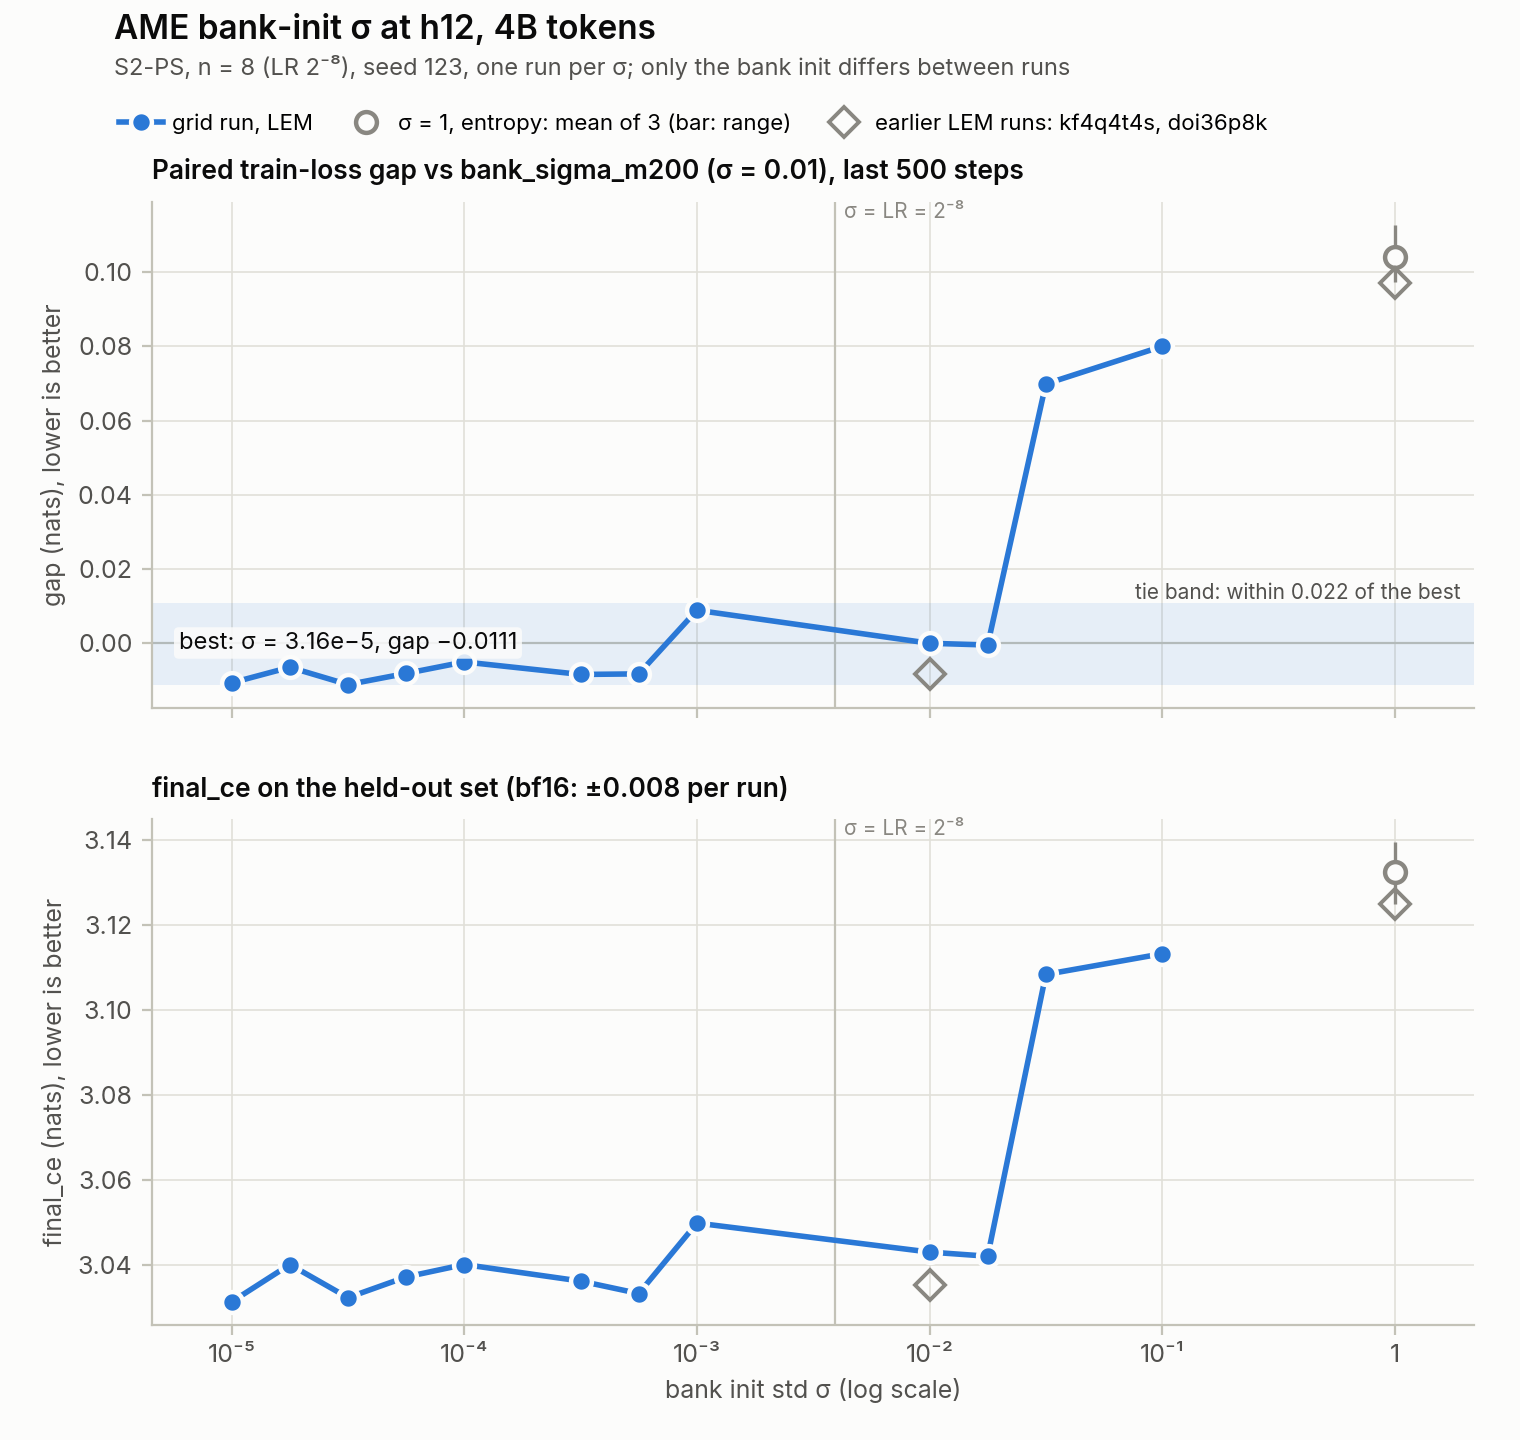
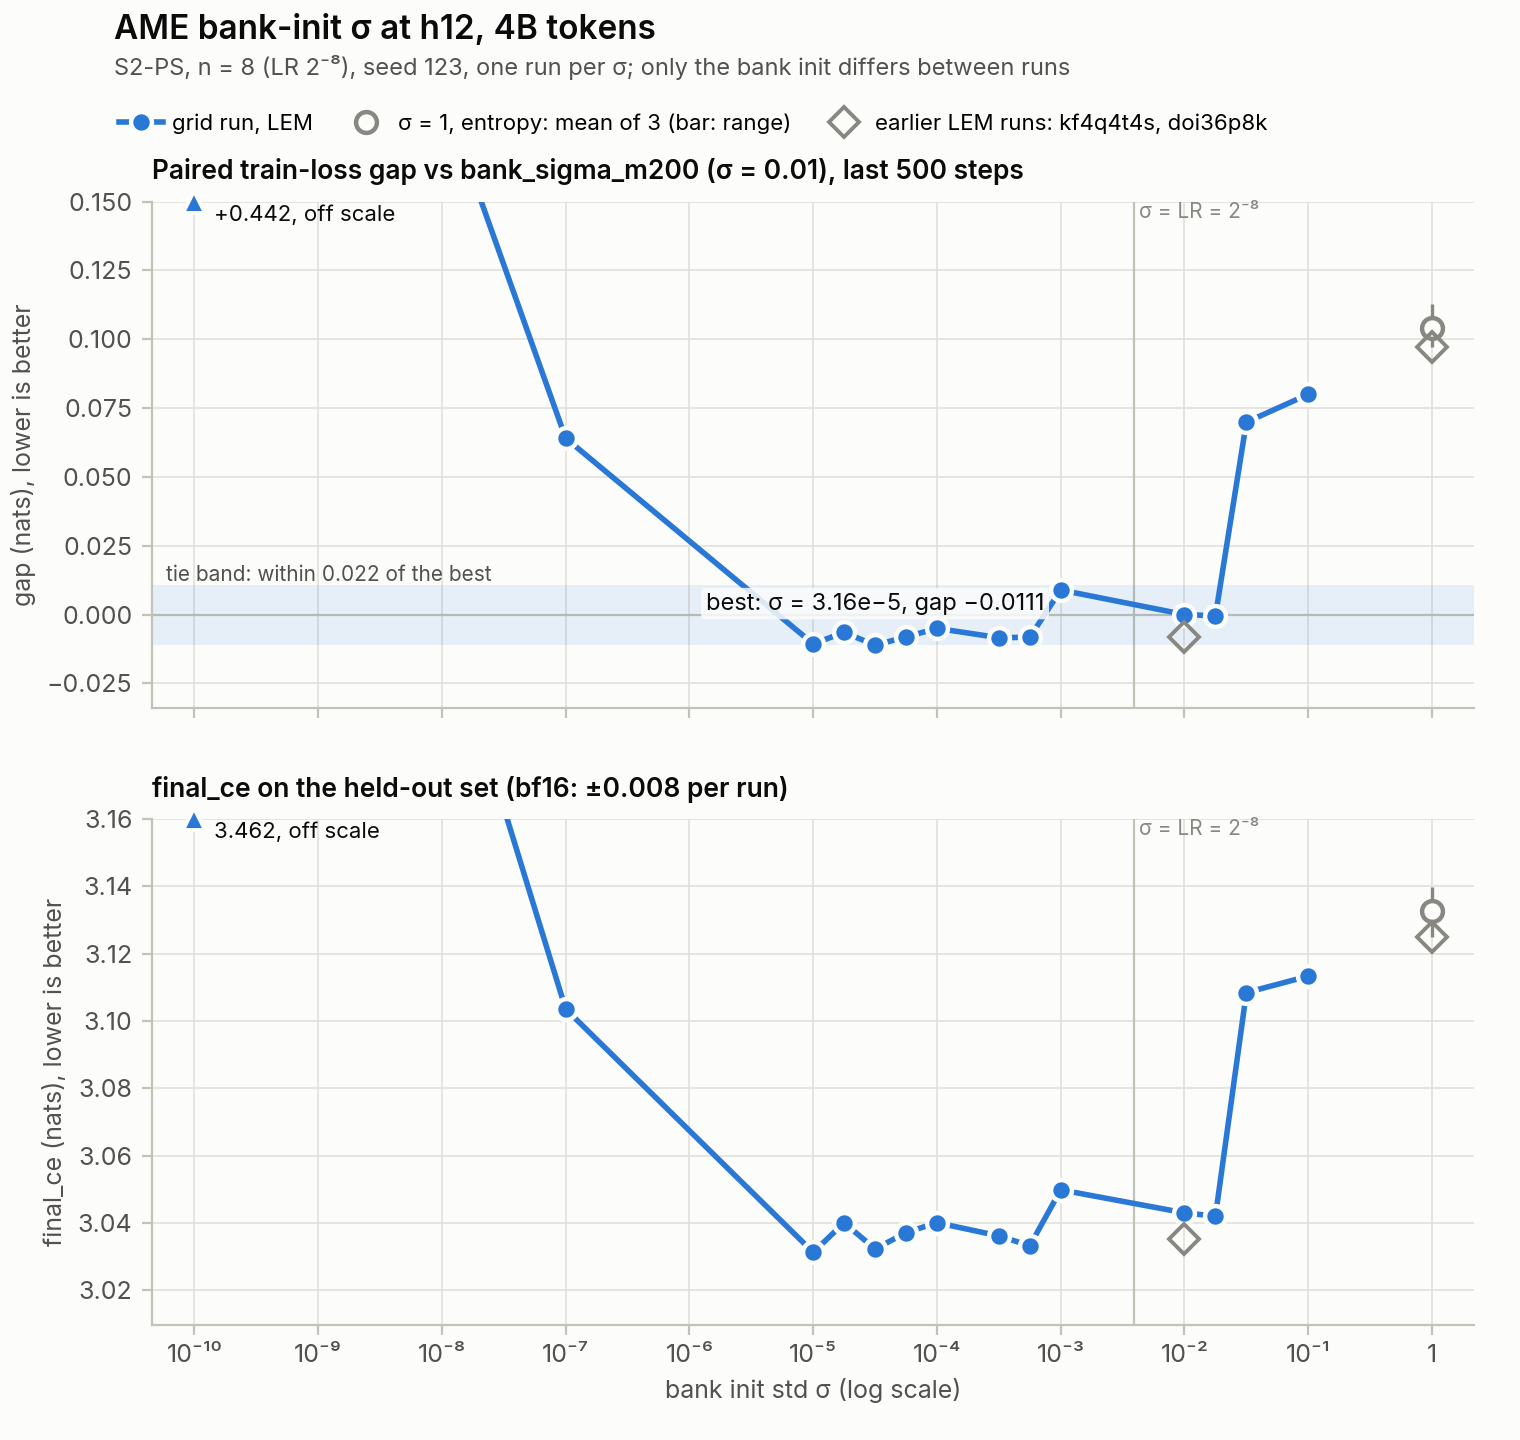
docs: the plan doc from ame_main, final with round 4 (14 runs, both edges, the redrawn chart)

diff --git a/documents/notes/ame_bank_sigma_grid.md b/documents/notes/ame_bank_sigma_grid.md
@@ -1,7 +1,7 @@
 # AME bank-init σ grid at h12 (plan and log)
 
-**Status:** EXTENDED, 2026-11-17: 12 runs in 3 rounds on LEM, then round 4 (σ =
-1e-10 and 1e-7) to find the lower failure edge, which the 12 runs never reached.
+**Status:** DONE, 2026-11-17: 14 runs on LEM. Rounds 1-3 ran 12; round 4 added σ =
+1e-10 and 1e-7, which found the lower failure edge the 12 runs never reached.
 
 **Question:** which bank init std σ is best for S2-PS at h12, 4B tokens? Bank-gates
 stage 2 showed σ = 0.01 beats σ = 1 (−0.0895 in final_ce,
@@ -27,21 +27,35 @@ two experiemnts and replot the chart with them".
 [ame_bank_sigma_figures/sigma_grid.json](ame_bank_sigma_figures/sigma_grid.json);
 redraw it with `scripts/bank_sigma_chart.py`.)
 
-- **The optimum is a plateau, not a point.** All ten σ from 1e-5 to 0.0178 tie.
+- **The optimum is a plateau with two failure edges.** All ten σ from 1e-5 to
+  0.0178 tie; below 1e-5 and above 0.0178 the init fails.
   - Their last-500 gaps against σ = 0.01 run from −0.0111 to +0.0089. That spread,
     0.020, is inside one tie band (0.022).
   - The same config rerun differs by 0.008 (`kf4q4t4s` against `bank_sigma_m200`).
   - So one run per σ can't rank σ inside the plateau.
   - The measured best is **σ = 3.16e-5** (−0.0111; final_ce 3.032 against 3.043).
-- **A cliff between 0.0178 and 0.0316:** from −0.0005 to +0.070 within a
-  quarter-decade. 0.1 is +0.080, and σ = 1 is +0.097 (`doi36p8k`).
+- **The lower edge, between 1e-5 and 1e-7** (round 4):
+  - σ = 1e-7 is +0.064, as bad as 0.0316 above the plateau.
+  - σ = 1e-10 is +0.442, far worse than σ = 1 (+0.097).
+  - The edge itself lies somewhere in those two decades; nothing between was run.
+  - **Why it fails: the clip.** A token's first sighting gives its bank row a
+    gradient ∝ 1/‖row‖, and at tiny σ that gradient alone is the whole norm. The
+    global clip (1.0) then shrinks the step for every weight.
+    - At 1e-7 and 1e-10 that hit about 600 steps (16%), against 26-28 steps, almost
+      all in warmup, at 1e-5 and 0.01.
+    - At 1e-10 a hit step was scaled by about 1e-4 (median) and effectively
+      skipped; at 1e-7, by about 0.1.
+    - Both also had a large loss spike at steps 141-198. At 1e-10 the loss reached
+      20.4, above its step-0 value.
+- **The upper edge, a cliff between 0.0178 and 0.0316:** from −0.0005 to +0.070
+  within a quarter-decade. 0.1 is +0.080, and σ = 1 is +0.097 (`doi36p8k`).
   - Above the cliff, early learning is slower: +0.30 in steps 0-99 at 0.0316.
   - Both runs above it had a large loss-spike episode, and neither caught up by 4B
     tokens.
   - At 0.0178 the init still costs early (+0.12 in steps 0-99), but the gap is
     gone by the second quarter.
-- **A soft floor near 2e-5.** At step 2855, the same batch in every run, the
-  banks' gradient norm grows steeply as σ falls:
+- **The lower edge's first sign is already on the plateau.** At step 2855, the
+  same batch in every run, the banks' gradient norm grows steeply as σ falls:
   - 0.005-0.007 at σ ≥ 0.0178;
   - 0.28 at 1e-4;
   - 1.49 at 1.78e-5 and 2.19 at 1e-5.
@@ -51,7 +65,8 @@ redraw it with `scripts/bank_sigma_chart.py`.)
   Most likely a rare token's row was still near its tiny draw: under the hard
   QK-norm its gradient scales as 1/‖row‖.
 - **Recommendation: σ = 1e-4** (or anything from about 3e-5 to 1e-3), mid-plateau.
-  - It sits two decades below the cliff and well above the floor.
+  - It sits two decades below the cliff and a decade above the last σ known to be
+    safe (1e-5).
   - It ties the measured best: −0.0050, within noise of −0.0111.
   - σ = 0.01, the current recipe, ties too, but it is only a quarter-decade below
     the cliff.
@@ -202,8 +217,8 @@ commit `kf4q4t4s` ran.
 | 3 | 5.62e-5 | 425 | LEM | 6338659_1 | `nq8vkgvu` | 11-16 18:25 (r18-14) | 11-16 22:40 | COMPLETED, exit 0, 4 h 15 min |
 | 3 | 0.0178 | 175 | LEM | 6338659_2 | `nlvvix9w` | 11-16 22:39 (r18-11) | 11-17 02:55 | COMPLETED, exit 0, 4 h 16 min |
 | 3 | 5.62e-4 | 325 | LEM | 6338659_3 | `tas6ri7w` | 11-16 22:40 (r18-8) | 11-17 02:55 | COMPLETED, exit 0, 4 h 14 min |
-| 4 | 1e-10 | 1000 | LEM | 6344941_0 | | | | PENDING |
-| 4 | 1e-7 | 700 | LEM | 6344941_1 | | | | PENDING |
+| 4 | 1e-10 | 1000 | LEM | 6344941_0 | `f2418w3u` | 11-17 12:55 (r18-10) | 11-17 17:09 | COMPLETED, exit 0, 4 h 13 min |
+| 4 | 1e-7 | 700 | LEM | 6344941_1 | `8p2c5mt3` | 11-17 13:02 (r14-2) | 11-17 17:14 | COMPLETED, exit 0, 4 h 12 min |
 
 ### Checks
 
@@ -300,8 +315,15 @@ commit `kf4q4t4s` ran.
     was clipped (factor 0.67), with no loss effect.
 - **Round 4, submitted 11-17 09:37** (array 6344941): 2 tasks, both at once, 6 h,
   r16-11 excluded, no placeholder left. No other job of Maciej's on LEM.
-- **Next check: when round 4 ends**, or at once on a failed task or a NaN. Then
-  the chart is redrawn with the two new points.
+- **Round 4 ran 11-17 12:55 to 17:14**, 3 h 18 min after submission. Its watcher
+  woke at 17:19.
+- **Round 4's end checks:**
+  - Both tasks COMPLETED, exit 0, in 4 h 12-13 min.
+  - Both logged steps 0-3814 and a final_ce; no NaN.
+  - s/step 3.76; peak memory 70.4 GiB.
+  - The grad-norm maximum after step 100: 187,359 (1e-10, step 153) and 190 (1e-7,
+    step 2855). Both are bank gradients, clipped (*Analysis*, round 4).
+- **No job of this grid is left on LEM or entropy.**
 
 ### Results
 
@@ -310,6 +332,8 @@ is the fraction of steps whose norm was clipped.
 
 | σ | m | Round | g, last 500 | final_ce | Spikes | Bank share | Clipped | Verdict |
 |---|---|---|---:|---:|---:|---:|---:|---|
+| 1e-10 | 1000 | 4 | +0.4421 | 3.4619 | 76: 8 episodes, the first at steps 141-198 (loss to 20.4) | 0.36 | 16% | worse |
+| 1e-7 | 700 | 4 | +0.0641 | 3.1035 | 36: 6 episodes, the first at steps 141-193 (loss to 7.2) | 0.24 | 16% | worse |
 | 1e-5 | 500 | 2 | −0.0107 | 3.0312 | 0 | 0.26 | 1% | tie |
 | 1.78e-5 | 475 | 3 | −0.0065 | 3.0400 | 0 | 0.27 | 1% | tie |
 | 3.16e-5 | 450 | 2 | −0.0111 | 3.0322 | 0 | 0.26 | 1% | best |
@@ -434,6 +458,42 @@ g ≤ +0.0109.
     gradient through the hard QK-norm is about 1/‖row‖, the "risk for tiny σ" of
     *What to expect*. Here it showed once and cost no loss.
 
+**Round 4 (the lower edge, σ = 1e-10 and 1e-7):**
+- **Both fail:** +0.442 at 1e-10, +0.064 at 1e-7. Against σ = 0.01:
+
+  | | 1e-10 | 1e-7 |
+  |---|---:|---:|
+  | Steps 0-99 | +1.15 | +0.54 |
+  | First quarter | +2.74 | +0.64 |
+  | Second quarter | +0.92 | +0.16 |
+  | Last quarter | +0.45 | +0.07 |
+
+  Both recover slowly and are still far behind at 4B tokens.
+- **The mechanism is the clip**, steps whose norm was clipped:
+
+  | σ | Clipped steps (by quarter) | Factor when clipped: median, min | Banks' share of the norm then |
+  |---|---|---|---:|
+  | 1e-10 | 629 (472, 76, 53, 28) | 8.4e-5, 3.2e-8 | 1.00 |
+  | 1e-7 | 593 (436, 76, 53, 28) | 0.096, 3.2e-5 | 1.00 |
+  | 1e-5 | 28 (27, 0, 1, 0) | 0.58, 3.2e-3 | 0.19 |
+  | 0.01 | 26 (26, 0, 0, 0), all before step 32 | 0.72, 0.16 | 0.02 |
+
+  - At 1e-7 and below, every step that brings a not-yet-updated row also brings that
+    row's 1/‖row‖ gradient. The banks are then the whole norm, and the clip shrinks
+    the step for every weight: by about 1e-4 at 1e-10, an effectively skipped step;
+    by about 0.1 at 1e-7.
+  - After the first quarter both runs clip on the same steps (76, 53, 28): the data
+    decides when a row first sees a gradient, and at both σ that always trips the
+    clip.
+  - At 1e-5 the same rows trip it once (step 2855), so the plateau's lower edge lies
+    between 1e-7 and 1e-5.
+- **Both open with a large loss spike at steps 141-198**, the same data steps.
+  - At 1e-10 the loss went from 6.6 to 20.4, above its step-0 value (11.25),
+    followed by seven smaller episodes.
+  - At 1e-7 it went from 5.9 to 7.2, followed by five small ones.
+- **Not an eps effect:** at 1e-10 a head slice's norm (about 8e-10) is still 800×
+  `F.normalize`'s eps. The failure is the optimisation's, not the arithmetic's.
+
 ### Decisions and issues
 
 1. **LR n = 8.** "Use optimal lr": n = 8 is S2-PS's tuned optimum
@@ -476,6 +536,11 @@ g ≤ +0.0109.
      1e9 at 1e-10. Every first sighting of a token should trip the global clip and
      shrink that whole step. That is the failure mechanism the floor at 2e-5 hinted
      at (*The answer*).
+   - **Result:** both fail, by exactly that mechanism. The plateau is bounded on
+     both sides: its lower edge lies between 1e-7 and 1e-5, its upper edge between
+     0.0178 and 0.0316. The chart is redrawn with all 14 points. Its y-axes stop at
+     a gap of 0.15 and a final_ce of 3.16, and 1e-10 sits on the top edge with its
+     value: drawn to scale it would squash the plateau into one line.
 7. **Moved to LEM** (Maciej, 11-13 13:30: "move them to lem, they will start there
    faster, dont run anything on entropy"). Nothing of this grid runs on entropy
    any more.
